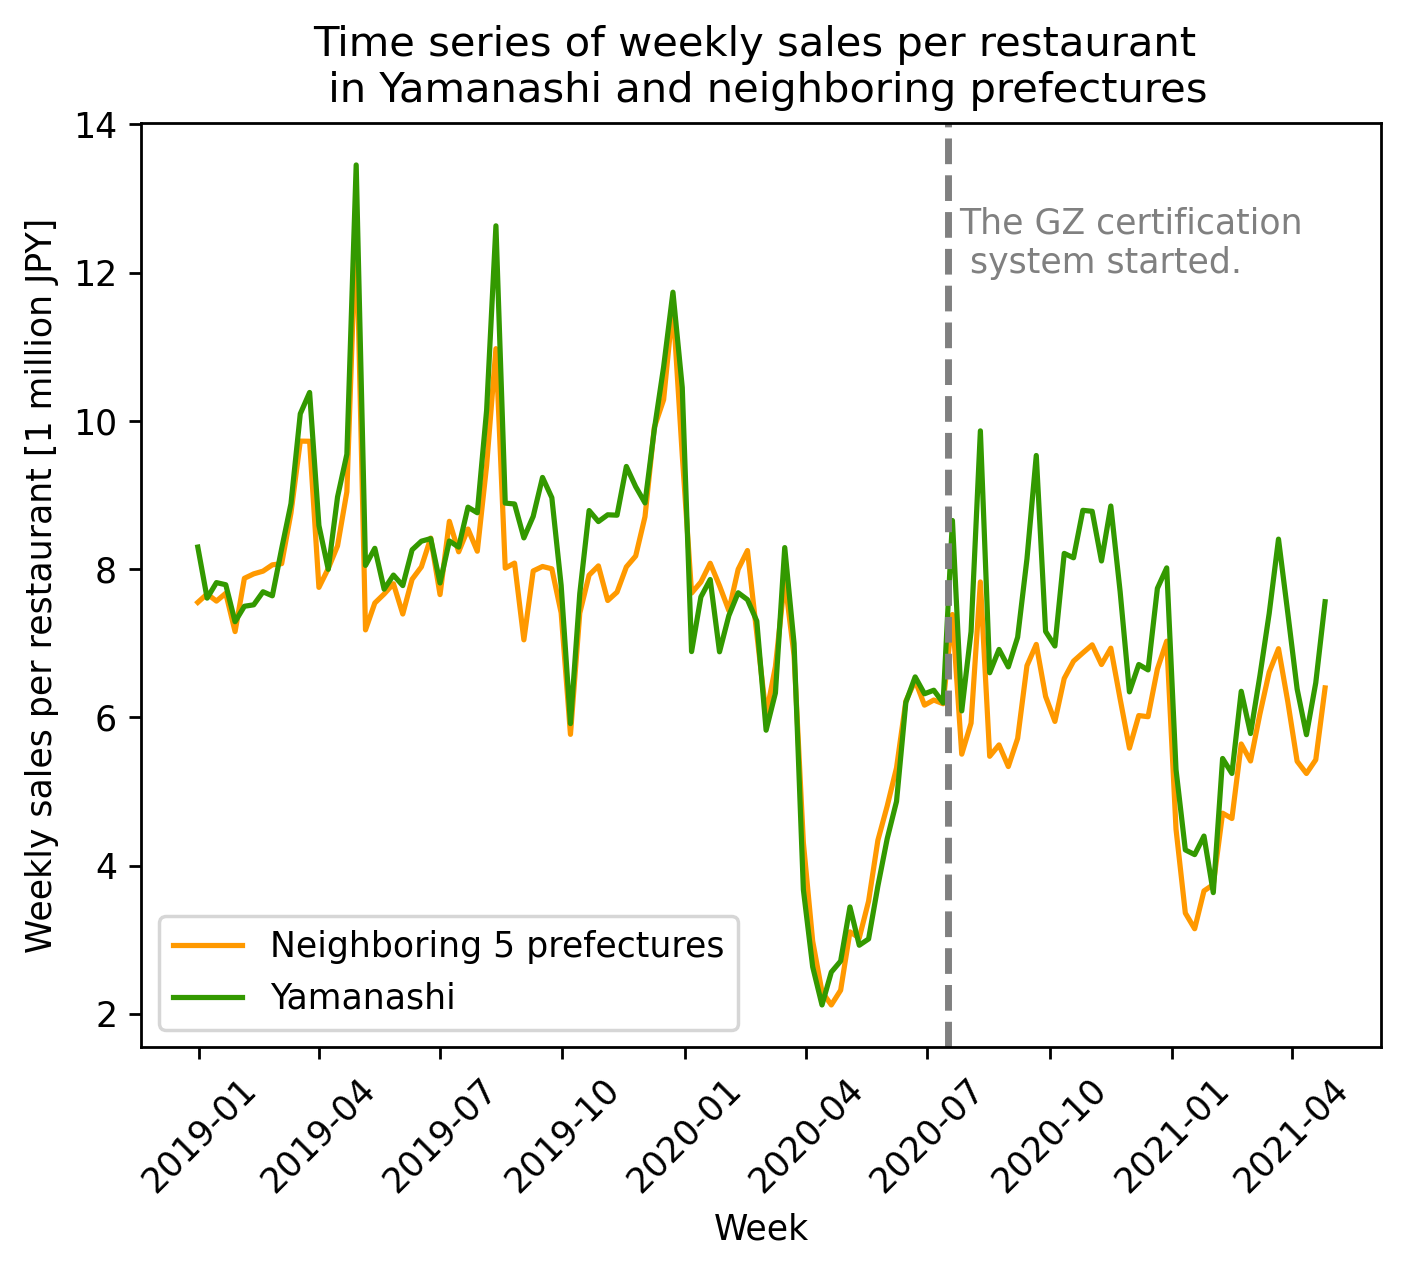
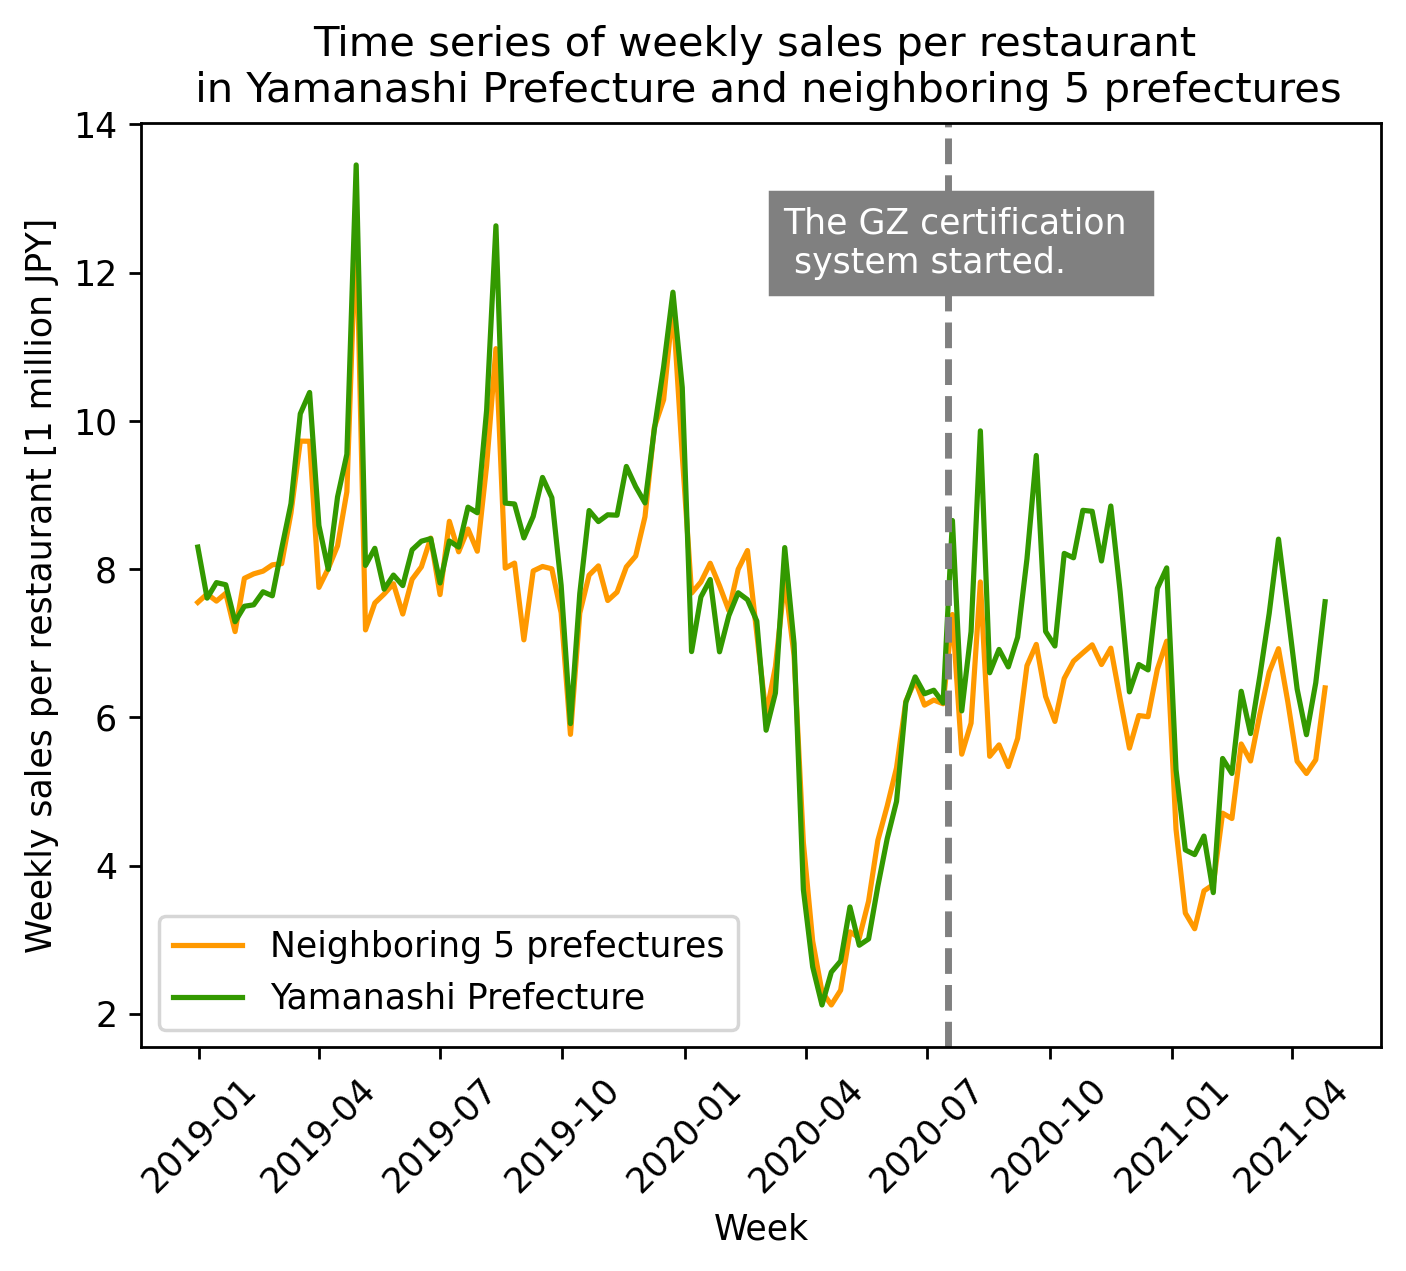
Minor fix on plots

Changed region(s): [[0.5199, 0.1227, 0.9175, 0.2455], [0.1223, 0.0614, 0.9481, 0.0921], [0.3364, 0.7671, 0.4587, 0.7978]]

diff --git a/04_analyze/Postas/code/analyze.py b/04_analyze/Postas/code/analyze.py
@@ -22,11 +22,11 @@ plt.xticks(rotation=45)
 axes.plot(Neighbor.index, Neighbor['sales_per']/100000, color = "#ff9900")
 axes.plot(Yama.index, Yama['sales_per']/100000, color = "#339900")
 axes.axvline(pd.to_datetime('2020-07-17'), color='gray', linestyle='dashed', lw=2)
-axes.text(pd.Timestamp("2020-07-25"), 12, "The GZ certification \n system started.", color = 'gray')
-plt.legend(['Neighboring 5 prefectures', "Yamanashi"])
+axes.text(pd.Timestamp("2020-03-15"), 12, "The GZ certification \n system started.", color = 'white', backgroundcolor = "gray")
+plt.legend(['Neighboring 5 prefectures', "Yamanashi Prefecture"])
 plt.xlabel("Week")
 plt.ylabel("Weekly sales per restaurant [1 million JPY]")
-plt.title("Time series of weekly sales per restaurant \n in Yamanashi and neighboring prefectures")
+plt.title("Time series of weekly sales per restaurant \n in Yamanashi Prefecture and neighboring 5 prefectures")
 plt.savefig("04_analyze/Postas/output/sales_plot.png", format="png", dpi=250, pad_inches=0.1, bbox_inches="tight")
 
 
@@ -38,10 +38,10 @@ plt.xticks(rotation=45)
 axes.plot(Neighbor.index, Neighbor['customers_per'], color = "#ff9900")
 axes.plot(Yama.index, Yama['customers_per'], color = "#339900")
 axes.axvline(pd.to_datetime('2020-07-17'), color='gray', linestyle='dashed', lw=2)
-axes.text(pd.Timestamp("2020-07-25"), 500, "The GZ certification \n system started.", color = 'gray')
-plt.legend(['Neighboring 5 prefectures', "Yamanashi"])
+axes.text(pd.Timestamp("2020-03-15"), 500, "The GZ certification \n system started.", color = 'white', backgroundcolor = "gray")
+plt.legend(['Neighboring 5 prefectures', "Yamanashi Prefecture"])
 plt.xlabel("Week")
-plt.ylabel("Number of customers per restaurant in a week")
-plt.title("Time series of number of customers per restaurant in a week \n in Yamanashi and neighboring prefectures")
+plt.ylabel("Number of customers per restaurant by week")
+plt.title("Time series of number of customers per restaurant by week \n in Yamanashi Prefecture and neighboring 5 prefectures")
 plt.savefig("04_analyze/Postas/output/customers_plot.png", format="png", dpi=250, pad_inches=0.1, bbox_inches="tight")
 

diff --git a/04_analyze/Covid/code/analyze.py b/04_analyze/Covid/code/analyze.py
@@ -24,12 +24,15 @@ plt.xticks(rotation=45)
 axes.plot(Neighbor.index, Neighbor['newcase_day_per'], color = "#ff9900")
 axes.plot(Yama.index, Yama['newcase_day_per'], color = "#339900")
 axes.axvline(pd.to_datetime("2020-04-07"), color='gray', linestyle='dashed', lw=2)
-axes.text(pd.Timestamp("2020-04-07"), 28, "The first \n state of emergency", color = 'gray')
-axes.axvline(pd.to_datetime("2020-07-22"), color='gray', linestyle='dashed', lw=2)
-axes.text(pd.Timestamp("2020-07-22"), 23, "Go To Campaign", color = 'gray')
+axes.text(pd.Timestamp("2020-02-07"), 28, "The first \n state of emergency", color = 'white',
+backgroundcolor = "gray")
+# axes.axvline(pd.to_datetime("2020-07-22"), color='gray', linestyle='dashed', lw=2)
+# axes.text(pd.Timestamp("2020-06-01"), 23, "Go To Campaign", color = 'white',
+# backgroundcolor = "gray")
 axes.axvline(pd.to_datetime("2021-01-07"), color='gray', linestyle='dashed', lw=2)
-axes.text(pd.Timestamp("2021-01-07"), 28, "The second \n state of emergency", color = 'gray')
-plt.legend(['Neighboring 5 prefectures', "Yamanashi"], loc = "center left")
+axes.text(pd.Timestamp("2020-11-01"), 30, "The second \n state of emergency", color = 'white',
+backgroundcolor = "gray")
+plt.legend(['Neighboring 5 prefectures', "Yamanashi Prefecture"], loc = "center left")
 plt.xlabel("Week")
 plt.ylabel("New infection cases per 100,000 population")
 plt.title("Time series of new infection cases by week")
